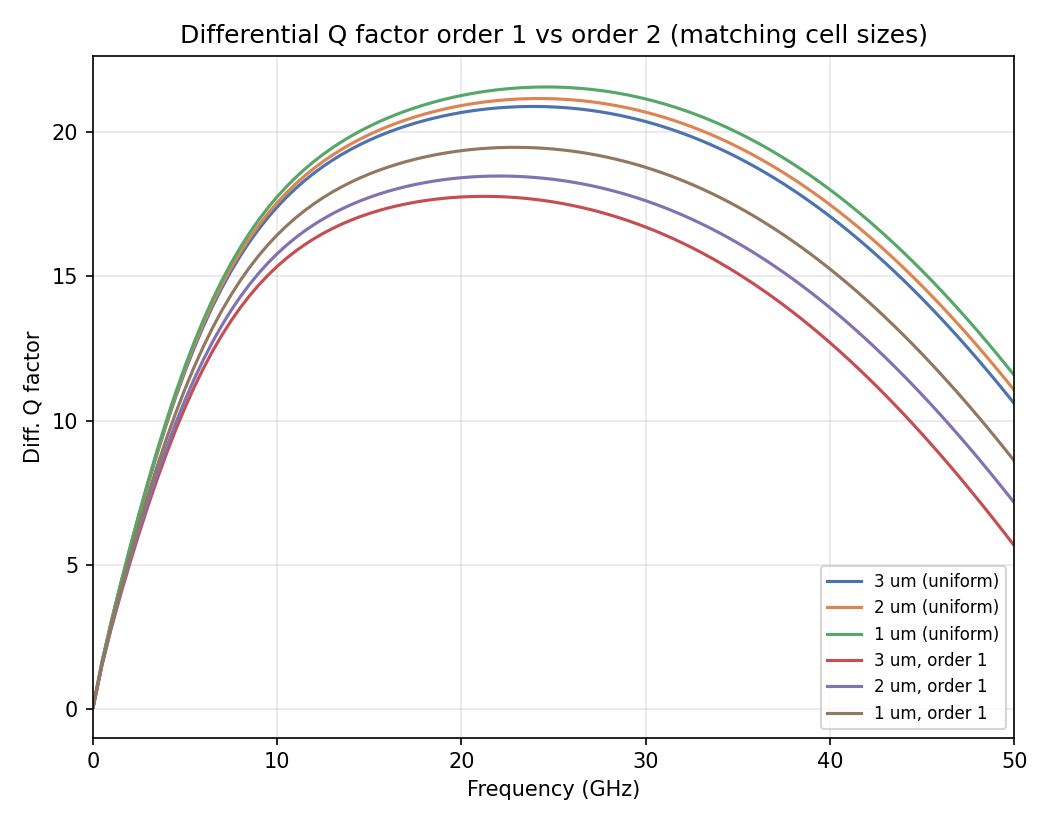
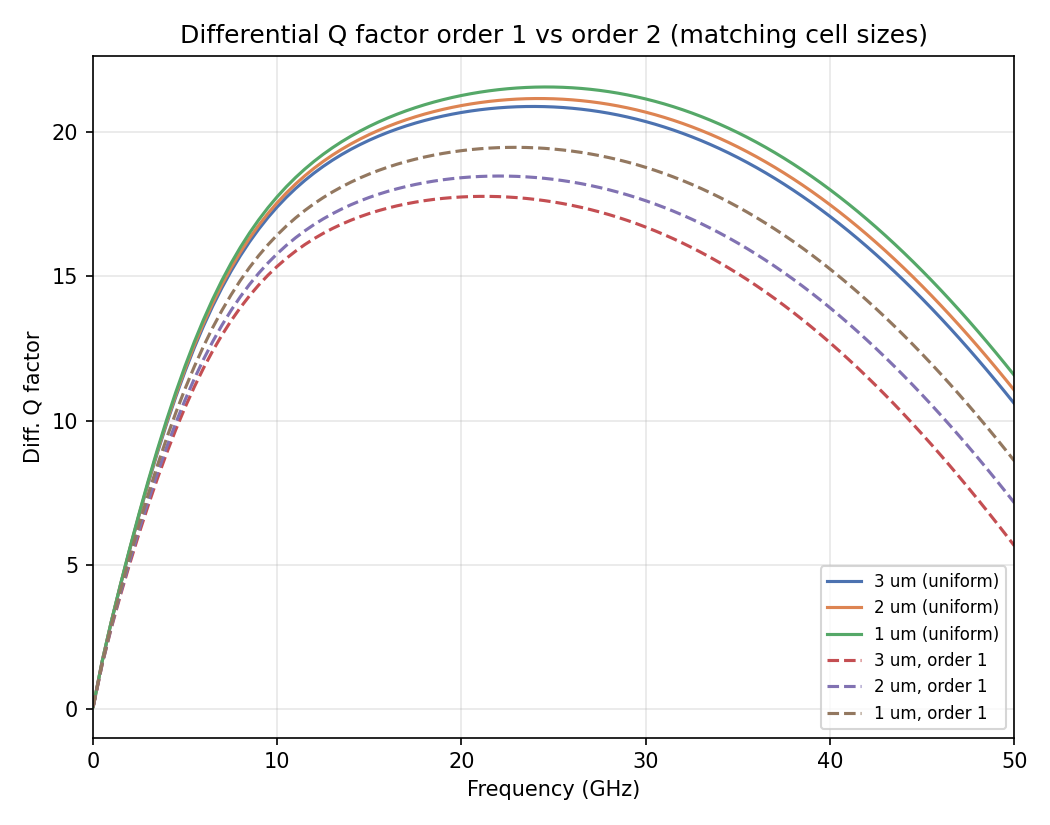
Dash order-1 curves in inductor L/Q/R order-comparison plots
plot_series() only dashed the AMR trace, so order-1 traces in
inductor_LQR_order_comparison_{l,q,r}.png rendered solid, same as
order-2 -- distinguishable only by color. Dash any *_order1 key too.

diff --git a/more_examples/mesh_convergence/mesh_convergence_inductor/results/plot_inductor_convergence.py b/more_examples/mesh_convergence/mesh_convergence_inductor/results/plot_inductor_convergence.py
@@ -142,7 +142,7 @@ def plot_series(loaded, amr_entry, title_suffix, out_prefix, fmax_ghz=None):
         fig, ax = plt.subplots(figsize=(7, 5.5))
         for idx, (key, tr) in enumerate(zip(all_keys, all_traces)):
             color = colors[idx % len(colors)]
-            style = "--" if key == "amr" else "-"
+            style = "--" if key == "amr" or key.endswith("_order1") else "-"
             freq_ghz = tr["freq"] / 1e9
             mask = freq_ghz <= fmax_ghz
             ax.plot(freq_ghz[mask], tr[pname][mask] * scale, color=color, linestyle=style, label=tr["label"])
